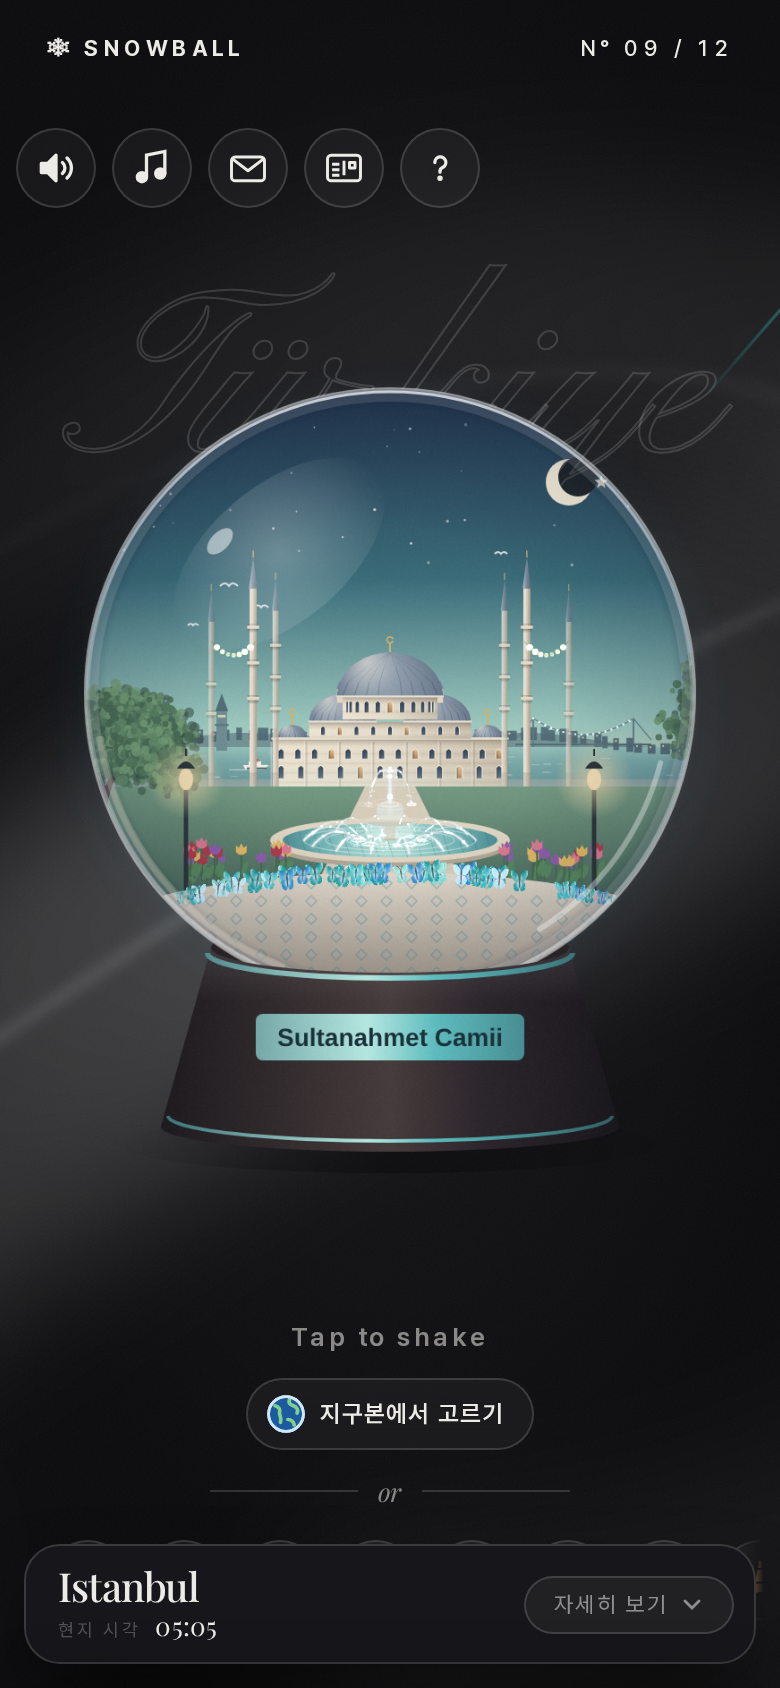
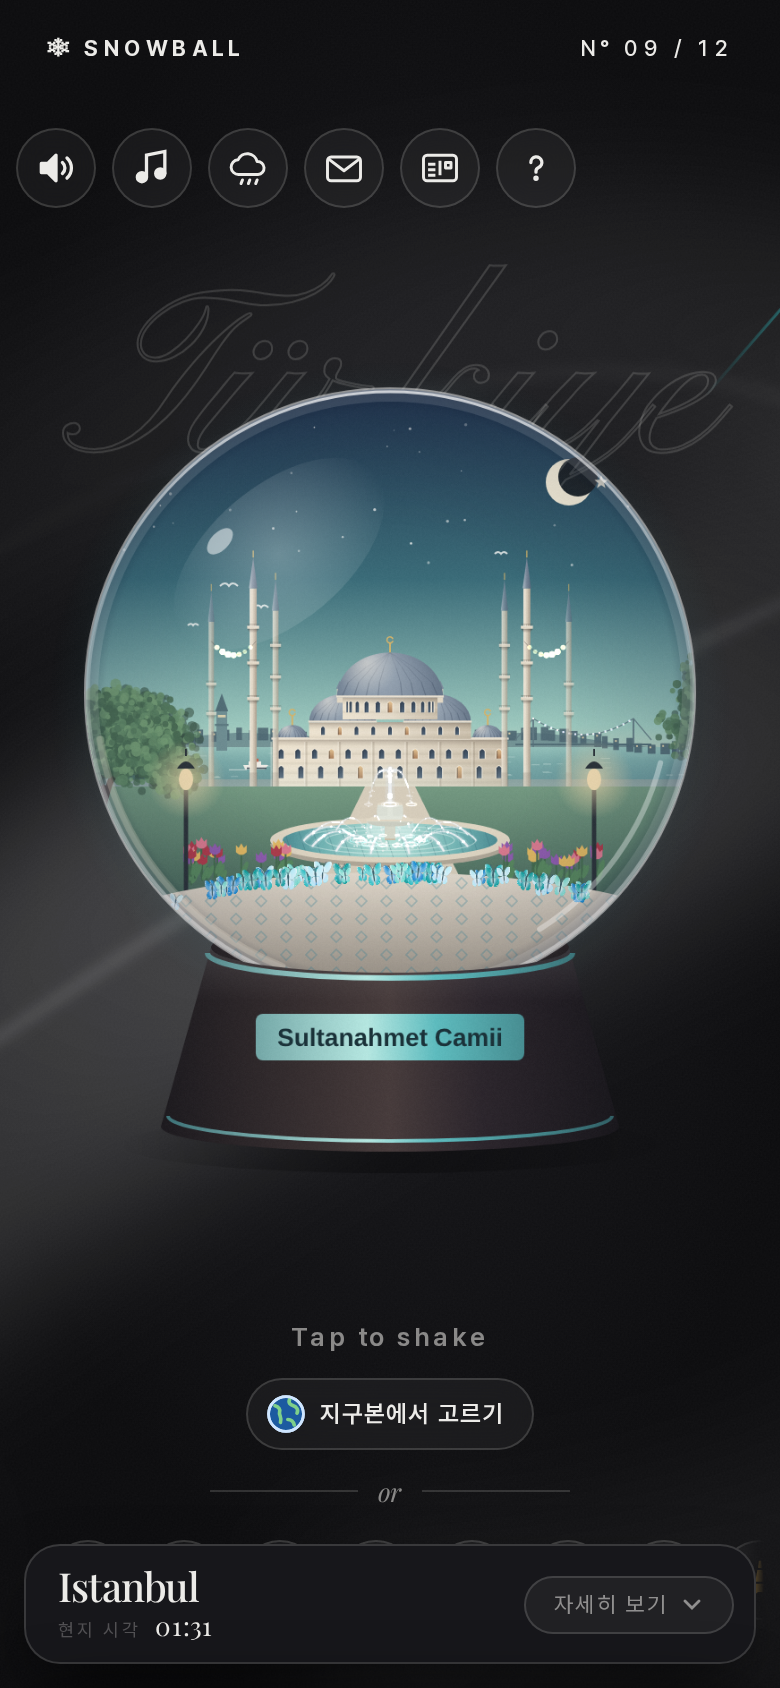
Weather toggle in the tools row: turn the live weather overlay off to see the original art; the choice is remembered
Claude-Session: https://claude.ai/code/session_01JhbTuZzDjvpknmtaqT34oX

diff --git a/index.html b/index.html
@@ -79,6 +79,13 @@
             <path class="music-off" d="M3 3l18 18" stroke="#ff8a8a" />
           </svg>
         </button>
+        <button type="button" class="weather-toggle" aria-label="실시간 날씨 끄기" title="실시간 날씨 끄기">
+          <svg viewBox="0 0 24 24" aria-hidden="true" fill="none" stroke="#ecebe8" stroke-width="1.6" stroke-linecap="round" stroke-linejoin="round">
+            <path d="M7 15.5a4 4 0 0 1-.4-8A5.5 5.5 0 0 1 17 8.5a3.5 3.5 0 0 1 .5 7Z" />
+            <path d="M9 18.5l-.8 2M13 18.5l-.8 2M17 18.5l-.8 2" />
+            <path class="weather-off" d="M3 3l18 18" stroke="#ff8a8a" />
+          </svg>
+        </button>
         <button type="button" class="letter-toggle" aria-label="스노우볼 편지 보내기" title="편지 보내기">
           <svg viewBox="0 0 24 24" aria-hidden="true" fill="none" stroke="#ecebe8" stroke-width="1.6" stroke-linejoin="round">
             <rect x="3" y="6" width="18" height="13" rx="2" />

diff --git a/styles.css b/styles.css
@@ -1229,6 +1229,14 @@ body.picker-open .meta {
   display: inline;
 }
 
+.weather-toggle .weather-off {
+  display: none;
+}
+
+.weather-toggle[data-off="true"] .weather-off {
+  display: inline;
+}
+
 /* 튜토리얼: 대상만 밝게 비추고 나머지는 어둡게 */
 .tour-spot {
   position: fixed;
